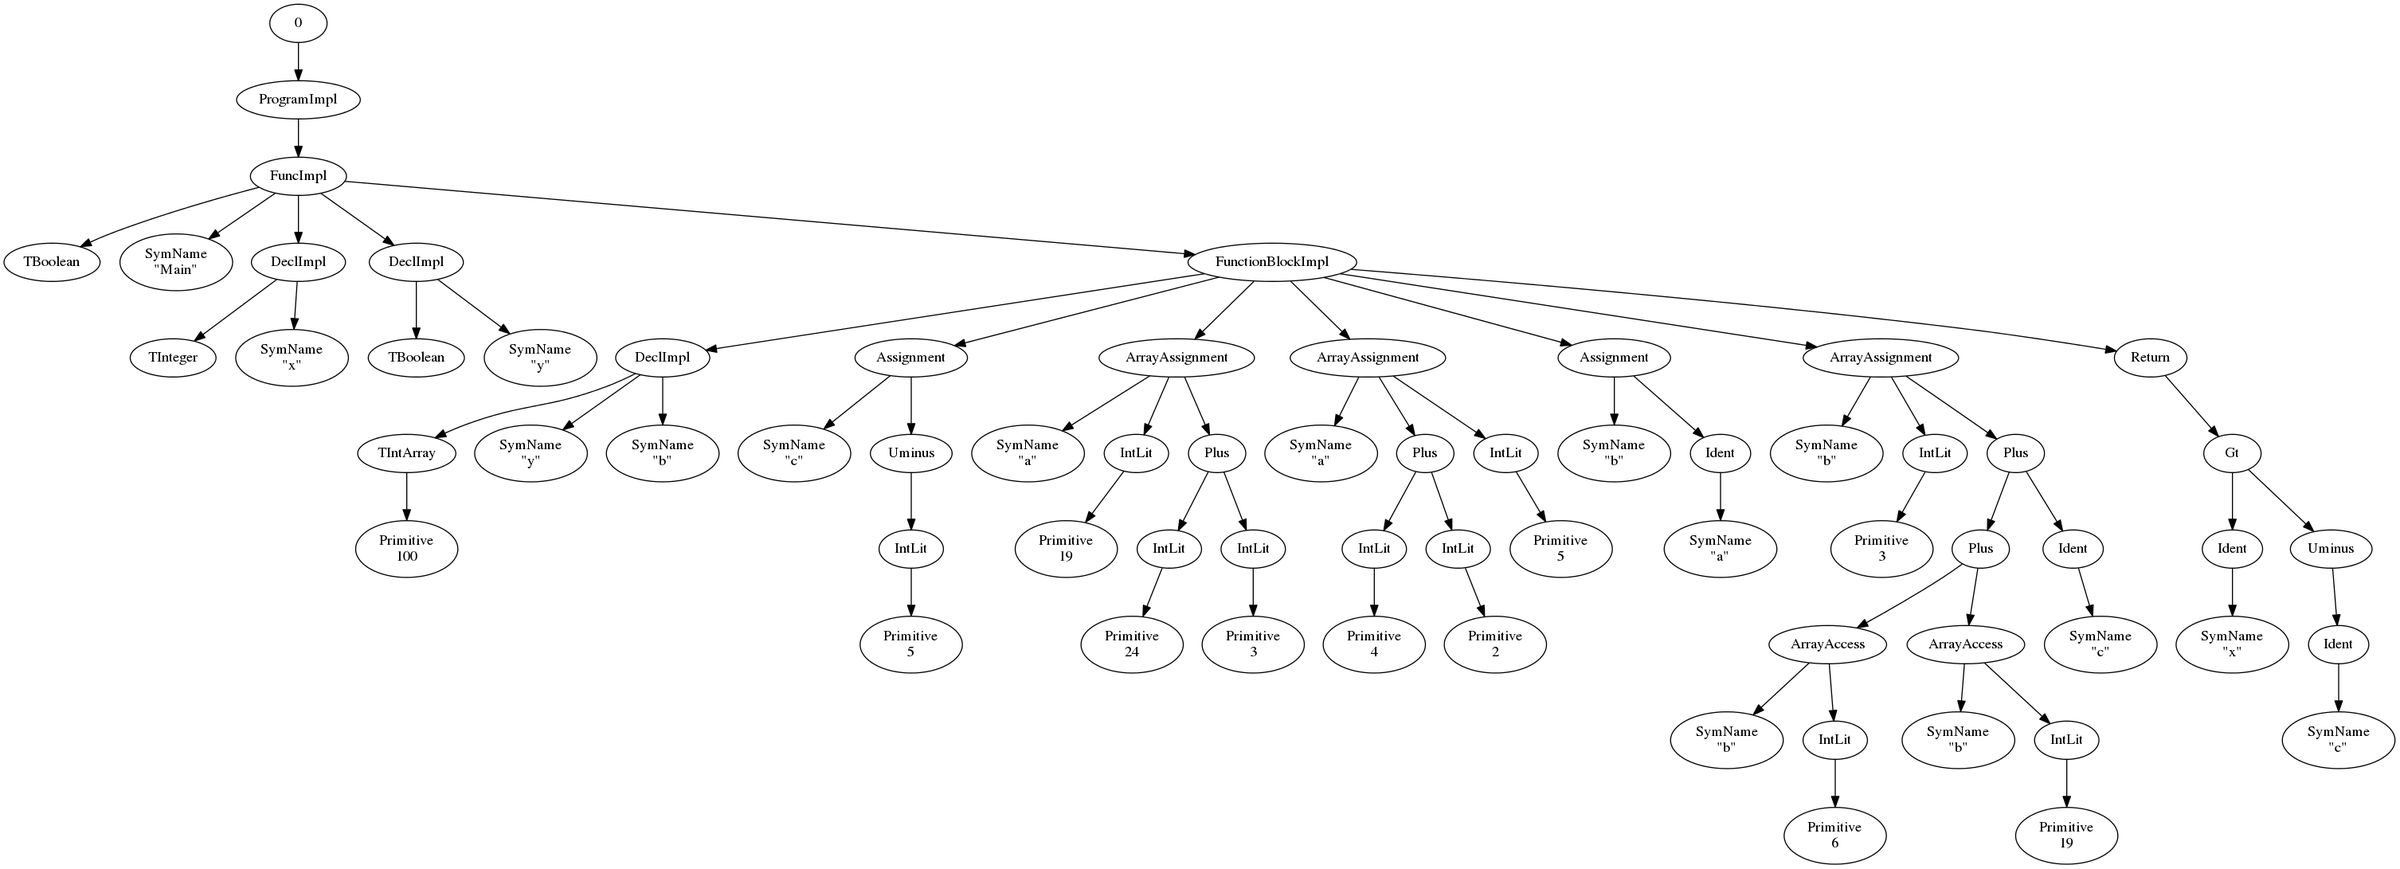
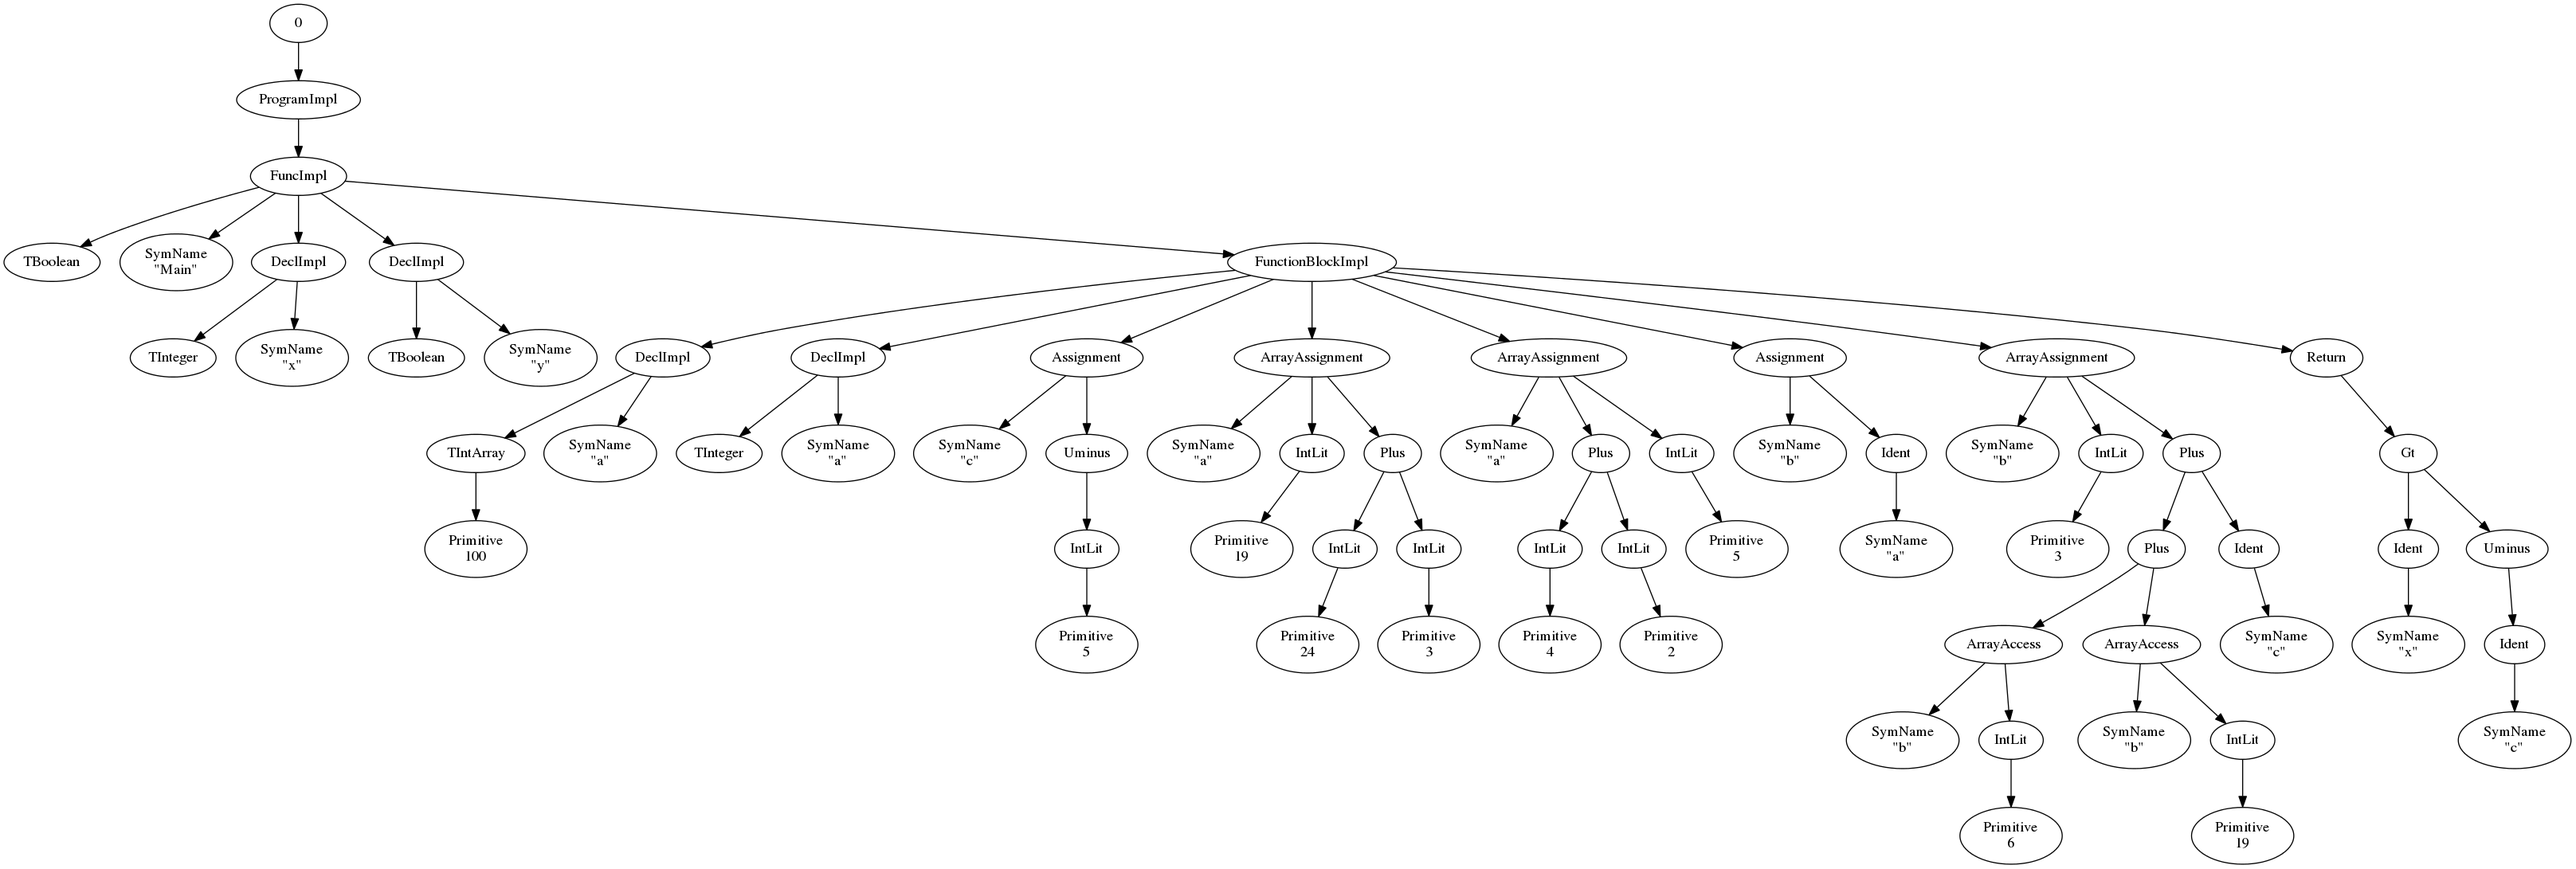
works for lang2 now

diff --git a/ast/parser.cpp b/ast/parser.cpp
@@ -1611,7 +1611,7 @@ yyreduce:
   case 12:
 /* Line 1787 of yacc.c  */
 #line 100 "parser.ypp"
-    {(yyval).u_type=(yyval).u_type;}
+    {(yyval).u_type=(yyvsp[(1) - (1)]).u_type;}
     break;
 
   case 13:
@@ -1683,7 +1683,7 @@ yyreduce:
   case 24:
 /* Line 1787 of yacc.c  */
 #line 125 "parser.ypp"
-    { (yyvsp[(3) - (6)]).u_symname_list->push_front(new SymName((yyvsp[(1) - (6)]).u_base_charptr)); (yyval).u_decl=new DeclImpl((yyvsp[(5) - (6)]).u_type,(yyvsp[(3) - (6)]).u_symname_list); }
+    { (yyvsp[(3) - (6)]).u_symname_list->push_front(new SymName((yyvsp[(2) - (6)]).u_base_charptr)); (yyval).u_decl=new DeclImpl((yyvsp[(5) - (6)]).u_type,(yyvsp[(3) - (6)]).u_symname_list); }
     break;
 
   case 25:
